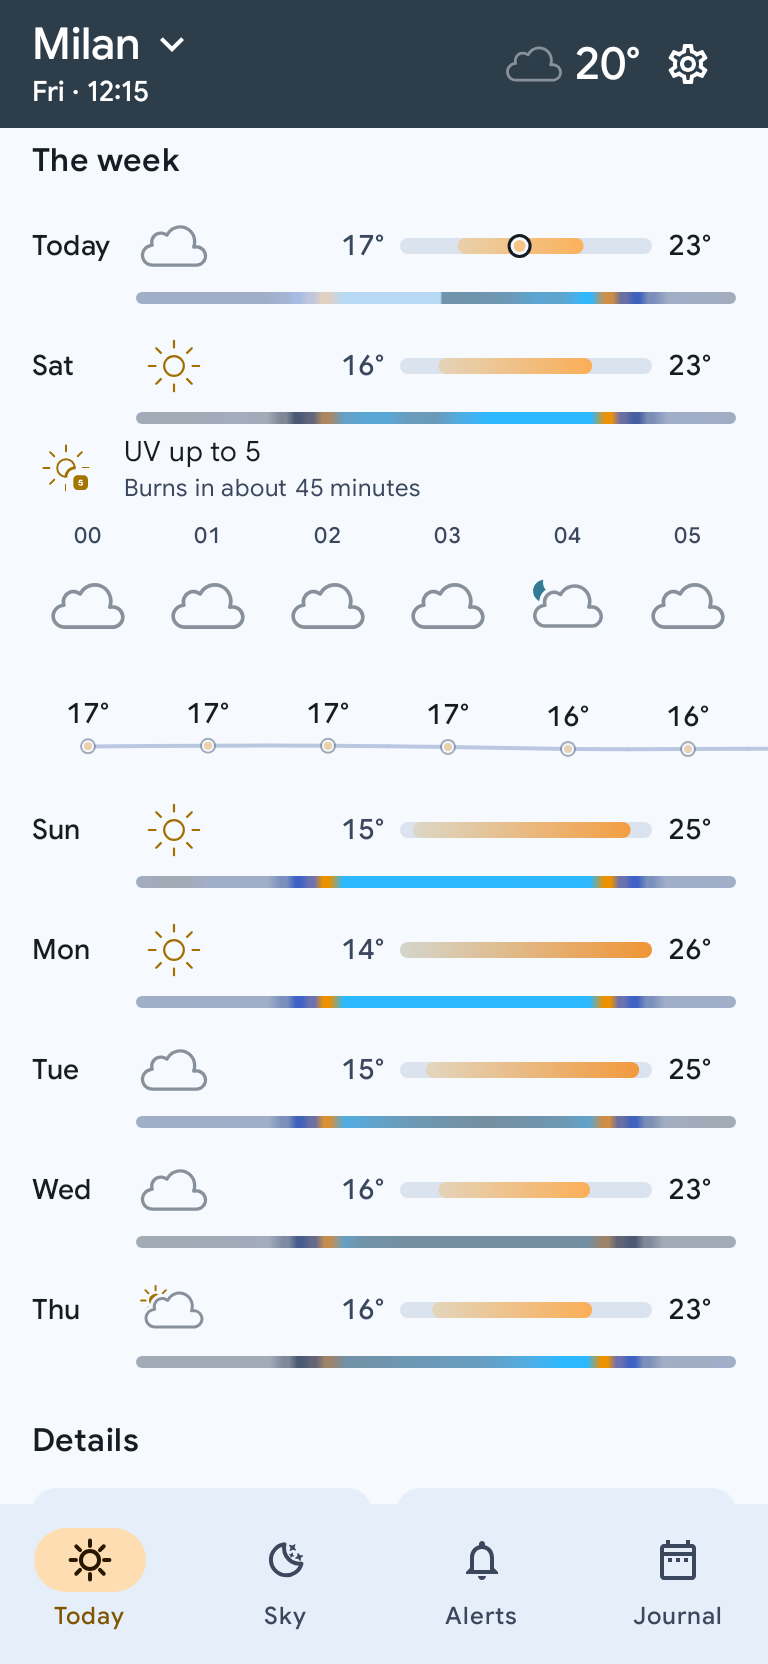
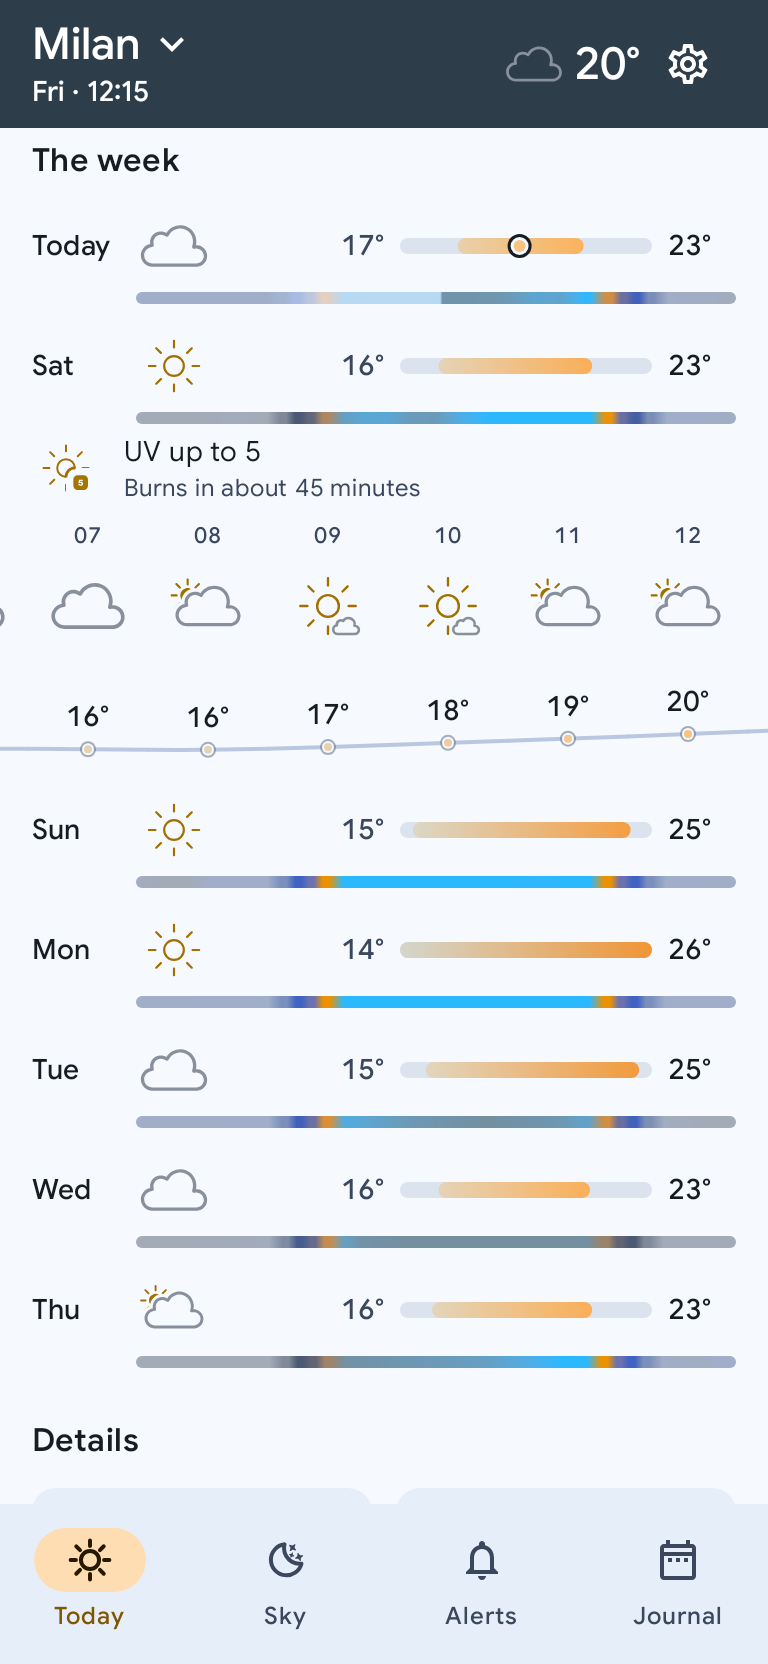
Today: an open day starts at dawn, the agenda counts the sun
Points 5 and 6 of the review of the Today screen.

- An open week day's strip opens on the hour before its first daylight
  hour instead of 00:00, six cells of night.
- The agenda's countdown goes to the first row that is not the moon's:
  it went to a moonrise one minute before the golden hour.
- The evening's golden and blue hours print as spans
  («Golden hour until 19:15»), from TimelineItem.until.
- DESIGN, PLANNING, CHANGELOG; today-now and today-week regenerated.

Claude-Session: https://claude.ai/code/session_01PZBB3MnXk3HDK1abFqMvrz

diff --git a/app/src/main/kotlin/com/callbackdev/chiaro/ui/today/TodayScreen.kt b/app/src/main/kotlin/com/callbackdev/chiaro/ui/today/TodayScreen.kt
@@ -1579,6 +1579,7 @@ private fun StripHour.toCell(
 @Composable
 private fun RestOfDay(content: TodayUiState.Content, timeFmt: DateTimeFormatter) {
     val gap = 12.dp
+    val counted = countdownIndex(content.timeline)
     Column(
         modifier = Modifier.padding(horizontal = 16.dp),
         verticalArrangement = Arrangement.spacedBy(gap)
@@ -1587,8 +1588,8 @@ private fun RestOfDay(content: TodayUiState.Content, timeFmt: DateTimeFormatter)
             com.callbackdev.chiaro.ui.components.TimelineRow(
                 time = item.at.format(timeFmt),
                 icon = timelineIcon(item.kind),
-                text = timelineText(item),
-                soon = if (index == 0) soonText(content.now, item.at) else null,
+                text = timelineText(item, timeFmt),
+                soon = if (index == counted) soonText(content.now, item.at) else null,
                 connectAbove = index > 0,
                 connectBelow = index < content.timeline.lastIndex,
                 reach = gap / 2
@@ -1596,6 +1597,18 @@ private fun RestOfDay(content: TodayUiState.Content, timeFmt: DateTimeFormatter)
         }
     }
 }
+
+/**
+ * Which row says how soon (review of 12 ott 2026): the first one that is not the moon's.
+ * It was always the first row, and on the README's Milan that was a moonrise six hours
+ * out, one minute before the golden hour — the countdown, the one figure on the agenda in
+ * the accent, spent on the event a reader plans least by. The sun's moments, the rain's
+ * turns and the rainbow are what an afternoon is arranged around; a day whose agenda is
+ * only the moon counts down to the moon.
+ */
+internal fun countdownIndex(timeline: List<TimelineItem>): Int =
+    timeline.indexOfFirst { it.kind != TimelineKind.MOONRISE && it.kind != TimelineKind.MOONSET }
+        .takeIf { it >= 0 } ?: 0
 
 /** «tra 18 min», «tra 2 h», «tra 1 h 20 min» — or nothing for a moment already here. */
 @Composable
@@ -1625,12 +1638,17 @@ private fun timelineIcon(kind: TimelineKind) = when (kind) {
 }
 
 @Composable
-private fun timelineText(item: TimelineItem): String = when (item.kind) {
+private fun timelineText(item: TimelineItem, timeFmt: DateTimeFormatter): String = when (item.kind) {
     TimelineKind.SUNRISE -> stringResource(R.string.tl_sunrise)
     TimelineKind.GOLDEN_MORNING_END -> stringResource(R.string.tl_golden_morning_end)
-    TimelineKind.GOLDEN_EVENING -> stringResource(R.string.tl_golden_evening)
+    // A span says where it ends (12 ott 2026); without its end it is the moment it was.
+    TimelineKind.GOLDEN_EVENING -> item.until
+        ?.let { stringResource(R.string.tl_golden_evening_until, it.format(timeFmt)) }
+        ?: stringResource(R.string.tl_golden_evening)
     TimelineKind.SUNSET -> stringResource(R.string.tl_sunset)
-    TimelineKind.BLUE_EVENING -> stringResource(R.string.tl_blue_evening)
+    TimelineKind.BLUE_EVENING -> item.until
+        ?.let { stringResource(R.string.tl_blue_evening_until, it.format(timeFmt)) }
+        ?: stringResource(R.string.tl_blue_evening)
     TimelineKind.DARK -> stringResource(R.string.tl_dark)
     TimelineKind.MOONRISE -> stringResource(R.string.tl_moonrise)
     TimelineKind.MOONSET -> stringResource(R.string.tl_moonset)
@@ -1755,12 +1773,28 @@ private fun WeekRow(
                 HourStrip(
                     hours = day.hours.map { it.toCell(units, is24h, locale, markDayStart = false) },
                     modifier = Modifier.padding(top = 4.dp),
-                    contentPadding = PagePadding
+                    contentPadding = PagePadding,
+                    // Opened on the morning, not on midnight (review of 12 ott 2026): the
+                    // first six cells of a later day were 00–05, all night, and the hours
+                    // a reader opens a day for were off the screen. Remembered inside the
+                    // expansion, so every opening starts there again.
+                    rowState = rememberLazyListState(
+                        initialFirstVisibleItemIndex = openingHour(day.hours)
+                    )
                 )
             }
         }
     }
 }
+
+/**
+ * Where an open day's strip starts: the hour before the first daylight hour, so the
+ * sunrise is the second cell and the dawn before it is in view. Today's row starts at the
+ * hour we are in already (the report holds nothing earlier), and opens there, as does a
+ * day the sun never rises on.
+ */
+internal fun openingHour(hours: List<StripHour>): Int =
+    (hours.indexOfFirst { !it.night } - 1).coerceAtLeast(0)
 
 /**
  * The words for a row's wet marks (12 ott 2026): what falls, named from the hours' own

diff --git a/app/src/test/kotlin/com/callbackdev/chiaro/ui/today/RestOfDayTest.kt b/app/src/test/kotlin/com/callbackdev/chiaro/ui/today/RestOfDayTest.kt
@@ -1,0 +1,63 @@
+package com.callbackdev.chiaro.ui.today
+
+import com.callbackdev.chiaro.domain.model.HourlyForecast
+import com.callbackdev.chiaro.domain.model.WeatherCondition
+import java.time.LocalDateTime
+import java.time.ZoneId
+import org.junit.Assert.assertEquals
+import org.junit.Test
+
+/**
+ * The review of 12 ott 2026, points 5 and 6: which agenda row counts down, and where an
+ * open day's strip starts.
+ */
+class RestOfDayTest {
+
+    private val at = LocalDateTime.of(2026, 9, 25, 18, 0)
+
+    private fun item(kind: TimelineKind, minutes: Long) = TimelineItem(at.plusMinutes(minutes), kind)
+
+    @Test
+    fun `the countdown skips the moon`() {
+        val agenda = listOf(
+            item(TimelineKind.MOONRISE, 35),
+            item(TimelineKind.GOLDEN_EVENING, 36),
+            item(TimelineKind.SUNSET, 75)
+        )
+        assertEquals(1, countdownIndex(agenda))
+    }
+
+    @Test
+    fun `the first row counts down when it is not the moon's, and a moon-only agenda counts the moon`() {
+        assertEquals(0, countdownIndex(listOf(item(TimelineKind.RAIN_START, 10), item(TimelineKind.MOONRISE, 20))))
+        assertEquals(0, countdownIndex(listOf(item(TimelineKind.MOONSET, 10), item(TimelineKind.MOONRISE, 20))))
+        assertEquals(0, countdownIndex(emptyList()))
+    }
+
+    private val zone = ZoneId.of("Europe/Rome")
+
+    private fun hours(nightUntil: Int, from: Int = 0) = (from..23).map { h ->
+        val time = LocalDateTime.of(2026, 9, 26, h, 0)
+        StripHour(
+            HourlyForecast(
+                time = time,
+                at = time.atZone(zone).toInstant(),
+                tempC = 18.0,
+                condition = WeatherCondition(0),
+                precipChancePct = 0,
+                cloudCoverPct = 0
+            ),
+            night = h < nightUntil || h >= 20
+        )
+    }
+
+    @Test
+    fun `an open day starts the hour before its first daylight`() {
+        // Daylight from 07:00: the strip opens on 06:00, the sunrise in its second cell.
+        assertEquals(6, openingHour(hours(nightUntil = 7)))
+        // Today at 12:00, already in daylight: it opens where it starts.
+        assertEquals(0, openingHour(hours(nightUntil = 7, from = 12)))
+        // Today at 21:00, all night: the same.
+        assertEquals(0, openingHour(hours(nightUntil = 7, from = 21)))
+    }
+}

diff --git a/app/src/main/kotlin/com/callbackdev/chiaro/ui/today/TodayUiState.kt b/app/src/main/kotlin/com/callbackdev/chiaro/ui/today/TodayUiState.kt
@@ -115,7 +115,11 @@ data class TimelineItem(
     val at: LocalDateTime,
     val kind: TimelineKind,
     val pct: Int? = null,
-    val bearingDeg: Double? = null
+    val bearingDeg: Double? = null,
+    /** Where a span ends, for the rows that are spans and not moments (12 ott 2026):
+     * the evening's golden hour runs to sunset, its blue hour to the sun at −6°. Null for a
+     * moment, and for a span whose end the day does not have. */
+    val until: LocalDateTime? = null
 )
 
 /** One cell's worth of forecast, with its own day/night already decided — the strip
@@ -246,8 +250,14 @@ object TodayStateBuilder {
     ): List<TimelineItem> {
         val coords = report.location.coordinates
         val items = mutableListOf<TimelineItem>()
-        fun sun(at: Instant?, kind: TimelineKind) {
-            at?.let { items += TimelineItem(LocalDateTime.ofInstant(it, zone), kind) }
+        fun sun(at: Instant?, kind: TimelineKind, until: Instant? = null) {
+            at?.let {
+                items += TimelineItem(
+                    LocalDateTime.ofInstant(it, zone),
+                    kind,
+                    until = until?.let { end -> LocalDateTime.ofInstant(end, zone) }
+                )
+            }
         }
         val firstDate = now.toLocalDate()
         val lastDate = until.toLocalDate()
@@ -260,9 +270,12 @@ object TodayStateBuilder {
             }
             sun(solar.sunrise, TimelineKind.SUNRISE)
             sun(solar.goldenHourMorningEnd, TimelineKind.GOLDEN_MORNING_END)
-            sun(solar.goldenHourEveningStart, TimelineKind.GOLDEN_EVENING)
+            // The two evening hours are spans, and the agenda printed them as moments
+            // (review of 12 ott 2026): «Ora d'oro 18:36» left the reader to find out
+            // that it lasts until sunset.
+            sun(solar.goldenHourEveningStart, TimelineKind.GOLDEN_EVENING, until = solar.sunset)
             sun(solar.sunset, TimelineKind.SUNSET)
-            sun(solar.blueHourEveningStart, TimelineKind.BLUE_EVENING)
+            sun(solar.blueHourEveningStart, TimelineKind.BLUE_EVENING, until = solar.blueHourEveningEnd)
             sun(solar.astronomicalDusk, TimelineKind.DARK)
 
             val lunar = AstronomyEngine.lunarDay(date, zone, coords)

diff --git a/app/src/test/kotlin/com/callbackdev/chiaro/ui/today/TodayStateBuilderTest.kt b/app/src/test/kotlin/com/callbackdev/chiaro/ui/today/TodayStateBuilderTest.kt
@@ -192,4 +192,17 @@ class TodayStateBuilderTest {
         assertEquals(0f, tomorrow.first().at, 0f)
         assertEquals(1f, tomorrow.last().at, 0f)
     }
+
+    /** The evening's golden and blue hours are spans (review of 12 ott 2026): the golden
+     * hour ends at the sunset the same agenda lists, the blue hour after it begins. */
+    @Test
+    fun `the evening hours carry where they end`() {
+        val agenda = content(null).timeline
+        val golden = agenda.single { it.kind == TimelineKind.GOLDEN_EVENING }
+        val sunset = agenda.single { it.kind == TimelineKind.SUNSET }
+        val blue = agenda.single { it.kind == TimelineKind.BLUE_EVENING }
+        assertEquals(sunset.at, golden.until)
+        assertTrue(blue.until!!.isAfter(blue.at))
+        assertEquals(null, sunset.until)
+    }
 }

diff --git a/PLANNING.md b/PLANNING.md
@@ -11799,3 +11799,43 @@ ombrello, fine della pioggia, gelo, nebbia, vento, pioggia possibile, ombrello d
 - Screenshot rigenerati: la striscia senza «0%» e senza buco, la settimana con la colonna vuota,
   la nuvola sola nell'app e nei widget.
 - `./gradlew test :app:testDebugUnitTest :app:lintDebug :app:assembleDebug`.
+
+## Oggi: il giorno aperto all'alba, l'agenda che conta il sole (committente, 12 ott 2026)
+
+Punti 5 e 6 della revisione di Oggi, nella numerazione della revisione (nel messaggio prima
+li avevo rinumerati male; il committente ha chiesto «5 e 6» e si è seguita la revisione).
+
+### Cosa è cambiato
+
+- **Il giorno aperto parte dall'ora prima della prima ora di luce** (`openingHour`): sabato del
+  README apriva su 00–05, tutta notte; ora su 07, con l'alba delle 07:14. Lo stato della lista
+  è ricordato dentro l'espansione, quindi ogni apertura riparte da lì. Oggi apre sull'ora in
+  corso, come prima (il report non ha ore precedenti).
+- **Il «tra X» va alla prima riga che non è della luna** (`countdownIndex`): era sempre la
+  prima, e sul Milano del README contava sei ore a un sorgere di luna un minuto prima
+  dell'ora d'oro. Un'agenda di sola luna conta la luna.
+- **Ora d'oro e ora blu della sera sono intervalli**: `TimelineItem.until`, dal tramonto e dal
+  sole a −6° di `SolarDay`; «Ora d'oro fino alle 19:15», e così l'ora blu. Senza la
+  fine (un giorno che non ce l'ha) restano il momento di prima. Stringhe IT/EN.
+- DESIGN §8.4 e §8.5b, CHANGELOG; `today-now` e `today-week` rigenerati e guardati.
+
+### Decisioni e deviazioni
+
+- **La stella dell'ora blu resta.** La revisione la chiamava arbitraria; guardate le
+  alternative della famiglia, sono peggiori: `horizon` è `sunset` con una gobba di 1,6dp (la
+  stessa ragione per cui l'ora d'oro l'ha lasciato l'11 set), una luna annuncerebbe una luna.
+  La stella è la prima luce del cielo della sera, che è l'ora blu.
+- **«Ripete la scheda Cielo nei giorni asciutti» non è stato toccato**: è una scelta di
+  struttura (la VISION §5.2.4 vuole l'agenda unita qui), non un difetto da correggere in due
+  righe. Resta aperta per una decisione del committente.
+- **L'arco del widget non cambia**: stampa gli stessi elementi dell'agenda ma ha la sua riga
+  stretta; i campi nuovi hanno valori predefiniti e non lo toccano.
+
+### Come è stato verificato
+
+- `RestOfDayTest` (3, nuovo): il conto salta la luna; la prima riga conta quando non è della
+  luna, un'agenda di sola luna conta la luna; il giorno aperto parte dall'ora prima della luce,
+  oggi e una notte intera partono dall'inizio.
+- `TodayStateBuilderTest` (+1): l'ora d'oro finisce al tramonto della stessa agenda, l'ora blu
+  finisce dopo l'inizio, il tramonto non ha fine.
+- `./gradlew test :app:testDebugUnitTest :app:lintDebug :app:assembleDebug`.

diff --git a/DESIGN.md b/DESIGN.md
@@ -1254,7 +1254,13 @@ of prose, optional verdict chip. On Today (design review, 23 set 2026) the glyph
 **threaded**: a 2dp `outlineVariant` line from each glyph to the next, stopping 3dp short of
 each, so the rows read as one day in order; and the **first** row says how soon under its
 prose — «tra 18 min», «tra 1 h 20 min» — in `primary`, because the clock time is what you
-check against a watch and the countdown is what you plan with. Sun events, weather turns and the reader's own alerts use
+check against a watch and the countdown is what you plan with. Since the review of 12 ott
+2026 that is the first row **that is not the moon's** (a moon-only agenda still counts the
+moon): on the README's Milan the countdown went to a moonrise one minute before the golden
+hour. And the evening's **golden and blue hours print as spans** — «Ora d'oro fino alle
+19:15», and the blue hour to the sun at −6° — because they are spans; the blue hour keeps its star,
+the first light of the evening sky, since the family's alternatives are worse (`horizon` is
+`sunset` with a 1.6dp bump, a moon would announce a moon). Sun events, weather turns and the reader's own alerts use
 the same row; only the leading glyph differs.
 
 **8.5 DayRow** — weekday, icon, rain probability on the ink ramp (§2.3; printed from 20%),
@@ -1266,7 +1272,9 @@ colored bar is not a number. **Today's** bar carries a 12dp disc at the temperat
 (23 set 2026), in the ramp's color with an `onSurface` ring, on the week's shared scale — where
 in its day the day is.
 
-**8.5b The open day** (24 set 2026) — an open week row shows, above its hours, the day's
+**8.5b The open day** (24 set 2026) — its hour strip opens **on the hour before the first
+daylight hour** (12 ott 2026; it opened on 00:00, six cells of night), and today's on the
+hour we are in. An open week row shows, above its hours, the day's
 **facts**: rain (mm, and over how many hours), snow (cm), the strongest gust from 39 km/h,
 the highest UV from 3. One row per fact — the `Timeline` rung's glyph, the value in
 `bodyMedium`, its consequence under it in `bodySmall` / `onSurfaceVariant` — and only the

diff --git a/CHANGELOG.md b/CHANGELOG.md
@@ -28,6 +28,9 @@ sections are a normal size and live here alone.
 - **Less «0%».** The chance of rain is printed from 20%, where the app starts calling an hour
   wet; under it the column stays empty, and a dry strip of hours has no rain row at all.
 - **Overcast is one cloud.** The two-cloud drawing read as a moon at small sizes.
+- **An open day starts at dawn**, not at midnight.
+- **The rest of the day**: the golden and blue hours say when they end, and the countdown goes
+  to the first event that is not the moon's.
 
 ## [1.1.0] - 2026-10-01
 
